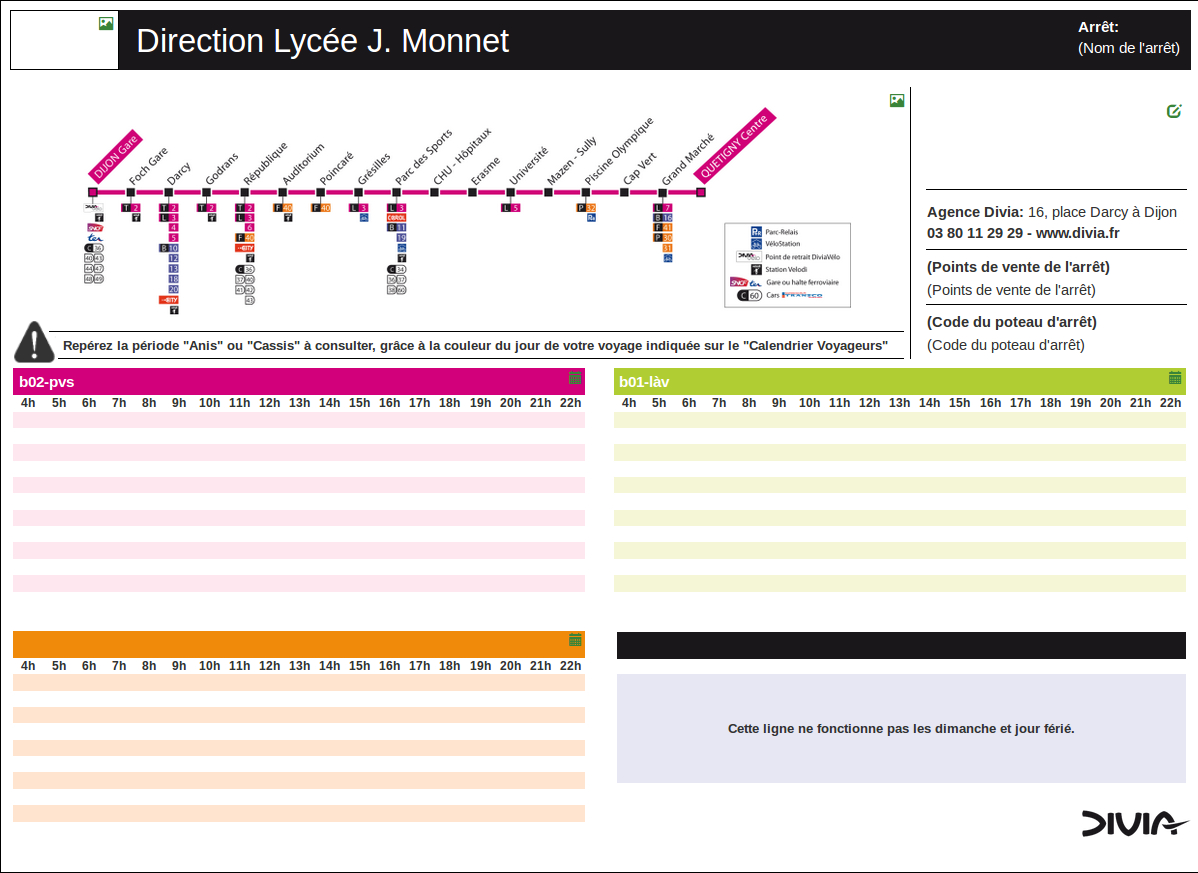
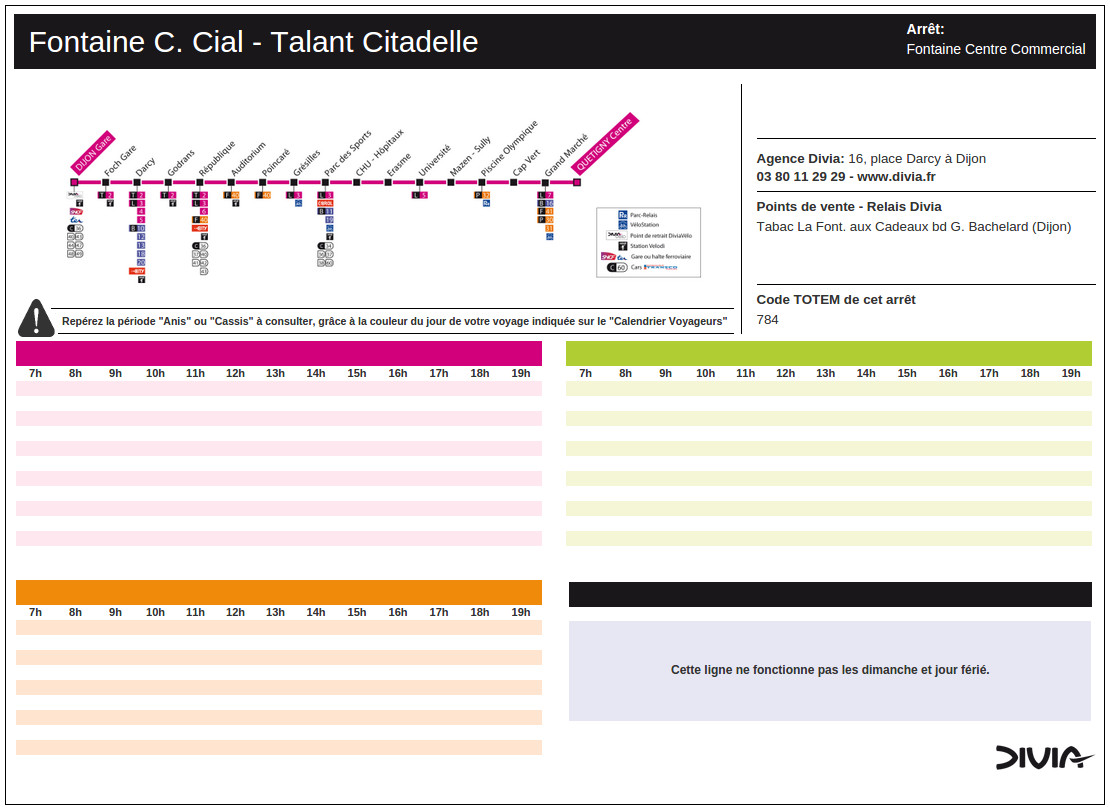
Model updated for Divia (2/4)

diff --git a/METH-363_Divia_3_paves/main.css b/METH-363_Divia_3_paves/main.css
@@ -23,7 +23,7 @@
     width:100%;
 }
 #layout-1-wrapper #small-right-blocks{
-    width:255px;
+    width:355px;
 }
 #layout-main-wrapper #header #direction-title-wrapper{
     font-size:30px;
@@ -44,7 +44,7 @@
 
 #large-left-blocks {
     float:left;
-    width:825px;
+    width:727px;
 }
 
 #layout-1-wrapper #flash_info_block {
@@ -54,12 +54,12 @@
 #layout-1-wrapper #flash_info_top{
     height: 225px;
     border-bottom: 1px solid black;
-    margin-left: 36px;
-    width: 95%;
+    margin-left: 37px;
+    width: 94%;
 }
 
 #layout-1-wrapper #flash_info_bottom{
-    width:94%;
+    width:93%;
     height: 25px;
     margin-left: 44px;
     border-bottom: 1px solid black;
@@ -67,7 +67,7 @@
 
 #layout-1-wrapper #flash_info_block .content{
     font-weight: bold;
-    font-size: 12px;
+    font-size: 10.5px;
     padding-left: 30px;
 }
 
@@ -184,16 +184,19 @@ div#timegrid_block_4 {
     border:1px solid white;
     border-bottom-color:black;
     margin:5px 0;
-    height:45px;
+    height: 43px;
 }
 #layout-1-wrapper .small-block:first-child{
     margin-top: 0;
+}
+#layout-1-wrapper #text_block_3.small-block{
+    height: 88px;
 }
 #layout-1-wrapper #text_block_2.small-block{
     height: 63px;
 }
 #layout-1-wrapper #text_block_1.small-block{
-    height: 85px;
+    height: 45px;
     margin: 10px 0;
 }
 #layout-1-wrapper .small-block:last-child{
